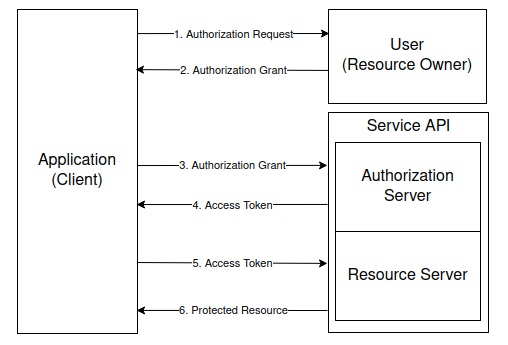
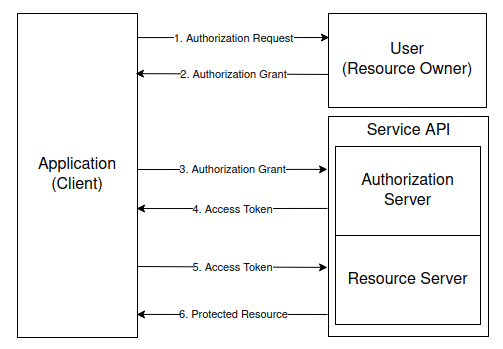
Fix images size

Changed region(s): [[0.0298, 0.029, 0.9841, 0.9855]]

diff --git a/content/oauth2/index.md b/content/oauth2/index.md
@@ -63,9 +63,7 @@ The abstract OAuth 2.0 flow is illustrated in Figure 1, which describes the inte
 
 <center>
     <figure>
-    <img
-    src="/oauth2/Protocol_Flow.png"
-    alt="Figure 1: Protocol Flow">
+    <img src="/oauth2/Protocol_Flow.png" alt="Figure 1: Protocol Flow" width="750px">
     <figcaption>Figure 1: Protocol Flow</figcaption>
     </figure>
 </center>
@@ -80,9 +78,7 @@ A refresh token is a specialized type of token designed to acquire a renewed acc
 
 <center>
     <figure>
-    <img
-    src="/oauth2/Refresh_Token.png"
-    alt="Figure 2: Refreshing an Expired Access Token">
+    <img src="/oauth2/Refresh_Token.png" alt="Figure 2: Refreshing an Expired Access Token" width="750px">
     <figcaption>Figure 2: Refreshing an Expired Access Token</figcaption>
     </figure>
 </center>
@@ -205,9 +201,7 @@ The authorization code grant type is illustrated in Figure 3.
 
 <center>
     <figure>
-    <img
-    src="/oauth2/Authorization_Code_Flow.png"
-    alt="Figure 3: Authorization Code Flow">
+    <img src="/oauth2/Authorization_Code_Flow.png" alt="Figure 3: Authorization Code Flow" width="750px">
     <figcaption>Figure 3: Authorization Code Flow</figcaption>
     </figure>
 </center>
@@ -247,9 +241,7 @@ The client credentials flow is illustrated in Figure 4.
 
 <center>
     <figure>
-    <img
-    src="/oauth2/Client_Credentials_Flow.png"
-    alt="Figure 4: Client Credentials Flow">
+    <img src="/oauth2/Client_Credentials_Flow.png" alt="Figure 4: Client Credentials Flow" width="750px">
     <figcaption>Figure 4: Client Credentials Flow</figcaption>
     </figure>
 </center>
@@ -290,9 +282,7 @@ The device code flow is illustrated in Figure 5.
 
 <center>
     <figure>
-    <img
-    src="/oauth2/Device_Code_Flow.png"
-    alt="Figure 5: Device Code Flow">
+    <img src="/oauth2/Device_Code_Flow.png" alt="Figure 5: Device Code Flow" width="750px">
     <figcaption>Figure 5: Device Code Flow</figcaption>
     </figure>
 </center>
@@ -303,9 +293,7 @@ The implicit grant type is notably simpler. Instead of initially acquiring an au
 
 <center>
     <figure>
-    <img
-    src="/oauth2/Implicit_Code_Flow.png"
-    alt="Figure 6: Implicit Grant Flow">
+    <img src="/oauth2/Implicit_Code_Flow.png" alt="Figure 6: Implicit Grant Flow" width="750px">
     <figcaption>Figure 6: Implicit Grant Flow</figcaption>
     </figure>
 </center>
@@ -321,17 +309,17 @@ The Password grant type is considered a legacy method for swapping a user's cred
 
 [2] Okta, “What is OAuth 2.0?”, <a href="https://auth0.com/intro-to-iam/what-is-oauth-2" target="_blank">https://auth0.com/intro-to-iam/what-is-oauth-2</a>
 
-[3] David Demir, “OAuth 2.0: What is OAuth and How Does it Work?” 2023, <a href="https://apidog.com/blog/what-is-oauth-2" target="_blank">https://auth0.com/intro-to-iam/what-is-oauth-2</a>
+[3] David Demir, “OAuth 2.0: What is OAuth and How Does it Work?”, 2023, <a href="https://apidog.com/blog/what-is-oauth-2" target="_blank">https://auth0.com/intro-to-iam/what-is-oauth-2</a>
 
-[4] Gbadebo Bello, “What is OAuth 2.0?” 2023,  <a href="https://blog.postman.com/what-is-oauth-2-0" target="_blank">https://blog.postman.com/what-is-oauth-2-0/</a>
+[4] Gbadebo Bello, “What is OAuth 2.0?”, 2023,  <a href="https://blog.postman.com/what-is-oauth-2-0" target="_blank">https://blog.postman.com/what-is-oauth-2-0/</a>
 
 [5] Ramotion, “What is OAuth? A Beginner's Guide to Authentication for APIs” 2023, <a href="https://www.ramotion.com/blog/what-is-oauth-authentification" target="_blank">https://www.ramotion.com/blog/what-is-oauth-authentification</a>
 
 [6] Aaron Parecki, “OAuth 2.0”,  <a href="https://oauth.net/2" target="_blank">https://oauth.net/2/</a>
 
-[7] Cloudentity Portal, “Client Credentials Flow” 2023, <a href="https://cloudentity.com/developers/basics/oauth-grant-types/client-credentials-flow" target="_blank">https://cloudentity.com/developers/basics/oauth-grant-types/client-credentials-flow</a>
+[7] Cloudentity Portal, “Client Credentials Flow”, 2023, <a href="https://cloudentity.com/developers/basics/oauth-grant-types/client-credentials-flow" target="_blank">https://cloudentity.com/developers/basics/oauth-grant-types/client-credentials-flow</a>
 
-[8] Daniel Yang, “How to Identify OAuth2 Vulnerabilities and Mitigate Risks” 2022, <a href="https://www.coupa.com/blog/technology-innovation/how-to-mitigate-oauth2-vulnerabilities" target="_blank">https://www.coupa.com/blog/technology-innovation/how-to-mitigate-oauth2-vulnerabilities</a>
+[8] Daniel Yang, “How to Identify OAuth2 Vulnerabilities and Mitigate Risks”, 2022, <a href="https://www.coupa.com/blog/technology-innovation/how-to-mitigate-oauth2-vulnerabilities" target="_blank">https://www.coupa.com/blog/technology-innovation/how-to-mitigate-oauth2-vulnerabilities</a>
 
 [9] PortSwigger, “OAuth 2.0 Authentication Vulnerabilities”, <a href="https://portswigger.net/web-security/oauth" target="_blank">https://portswigger.net/web-security/oauth</a>
 
